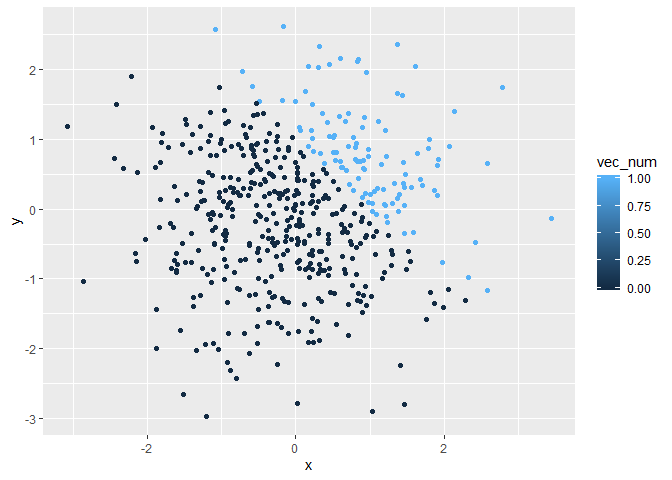
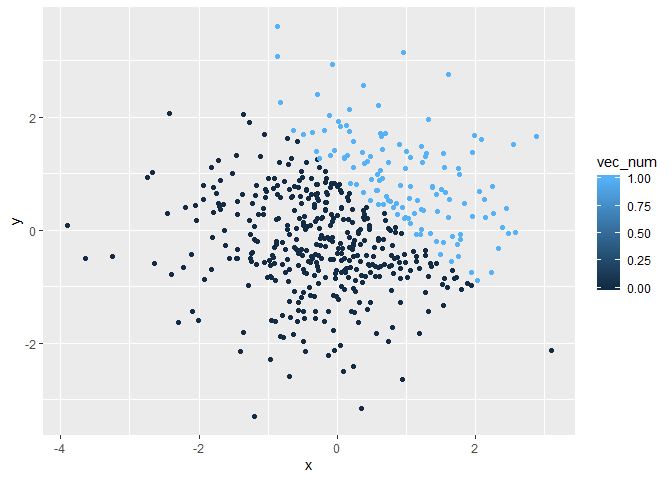
check before hand in

diff --git a/p8105_hw1_xl2934.md b/p8105_hw1_xl2934.md
@@ -11,8 +11,7 @@ Create a data frame comprised of:
   - a logical vector indicating whether elements of the sample are
     greater than 0
   - a character vector of length 8
-  - a factor vector of length 8, with 3 different factor
-    “levels”
+  - a factor vector of length 8, with 3 different factor “levels”
 
 <!-- end list -->
 
@@ -20,14 +19,14 @@ Create a data frame comprised of:
 library(tidyverse)
 ```
 
-    ## -- Attaching packages ------------------------------ tidyverse 1.2.1 --
+    ## -- Attaching packages ------------------------------------------------------- tidyverse 1.2.1 --
 
     ## √ ggplot2 3.2.1     √ purrr   0.3.2
     ## √ tibble  2.1.3     √ dplyr   0.8.3
     ## √ tidyr   0.8.3     √ stringr 1.4.0
     ## √ readr   1.3.1     √ forcats 0.4.0
 
-    ## -- Conflicts --------------------------------- tidyverse_conflicts() --
+    ## -- Conflicts ---------------------------------------------------------- tidyverse_conflicts() --
     ## x dplyr::filter() masks stats::filter()
     ## x dplyr::lag()    masks stats::lag()
 
@@ -44,7 +43,7 @@ df = tibble(
 mean(pull(df, var_num))
 ```
 
-    ## [1] -0.7996117
+    ## [1] -0.6066804
 
 ``` r
 mean(pull(df, var_log))
@@ -102,7 +101,7 @@ multi1 = pull(df, var_num) * as.numeric(pull(df, var_log))
 as.factor(pull(df, var_log))
 ```
 
-    ## [1] TRUE  FALSE FALSE FALSE FALSE FALSE TRUE  FALSE
+    ## [1] FALSE FALSE TRUE  FALSE FALSE TRUE  FALSE FALSE
     ## Levels: FALSE TRUE
 
 ``` r
@@ -117,8 +116,8 @@ multi3 = pull(df, var_num) * as.numeric(as.factor(pull(df, var_log)))
 multi3
 ```
 
-    ## [1]  3.0597038 -0.5661246 -1.0574568 -0.6756083 -1.3188382 -2.7271636
-    ## [7]  1.1682642 -2.1656858
+    ## [1] -0.3841118 -0.9736335  1.7125361 -1.4932526 -1.1321013  1.3278768
+    ## [7] -1.1152550 -1.2752954
 
 # Problem 2
 
@@ -139,9 +138,9 @@ df2 = tibble(
 )
 ```
 
-This data frame has 500 rows and 5 columns. The mean of `x` is
--0.0411404. The median of `x` is -0.0291307. The standard deviation of
-`x` is 1.0050575. The proportion of cases for which `x + y > 1` is 0.22
+This data frame has 500 rows and 5 columns. The mean of `x` is 0.016836.
+The median of `x` is -0.0153305. The standard deviation of `x` is
+1.0680255. The proportion of cases for which `x + y > 1` is 0.244
 
 ``` r
 ggplot(df2, aes(x = x, y = y, colour = vec_log)) + geom_point() 
